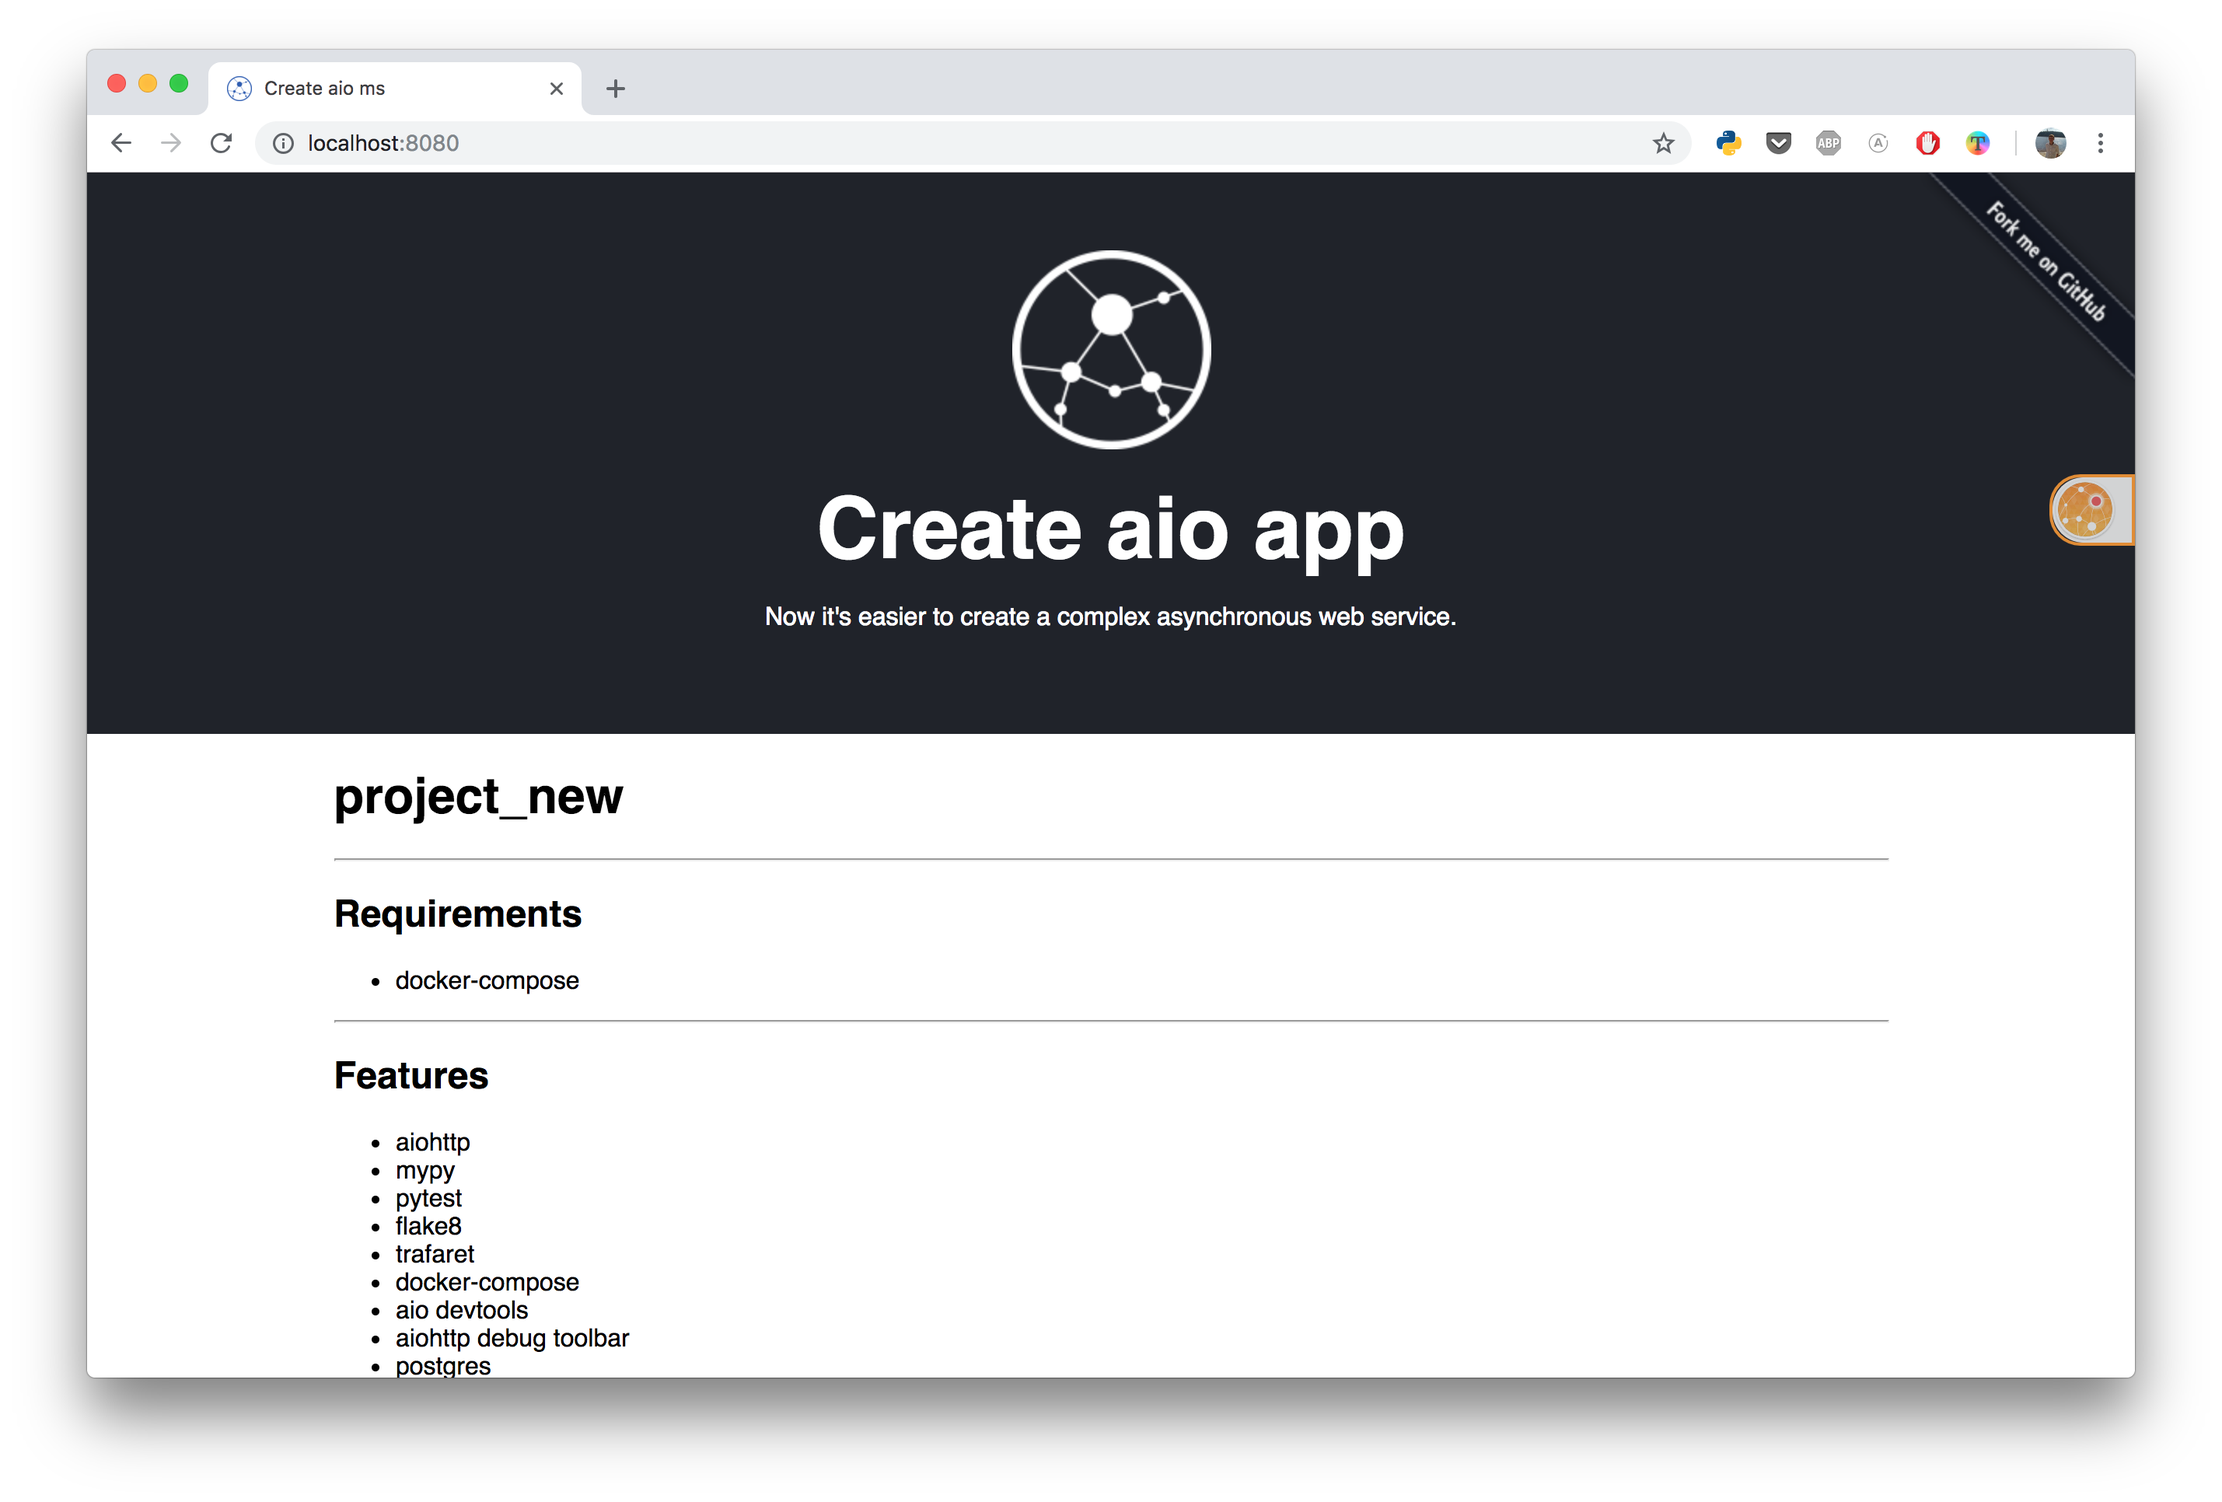
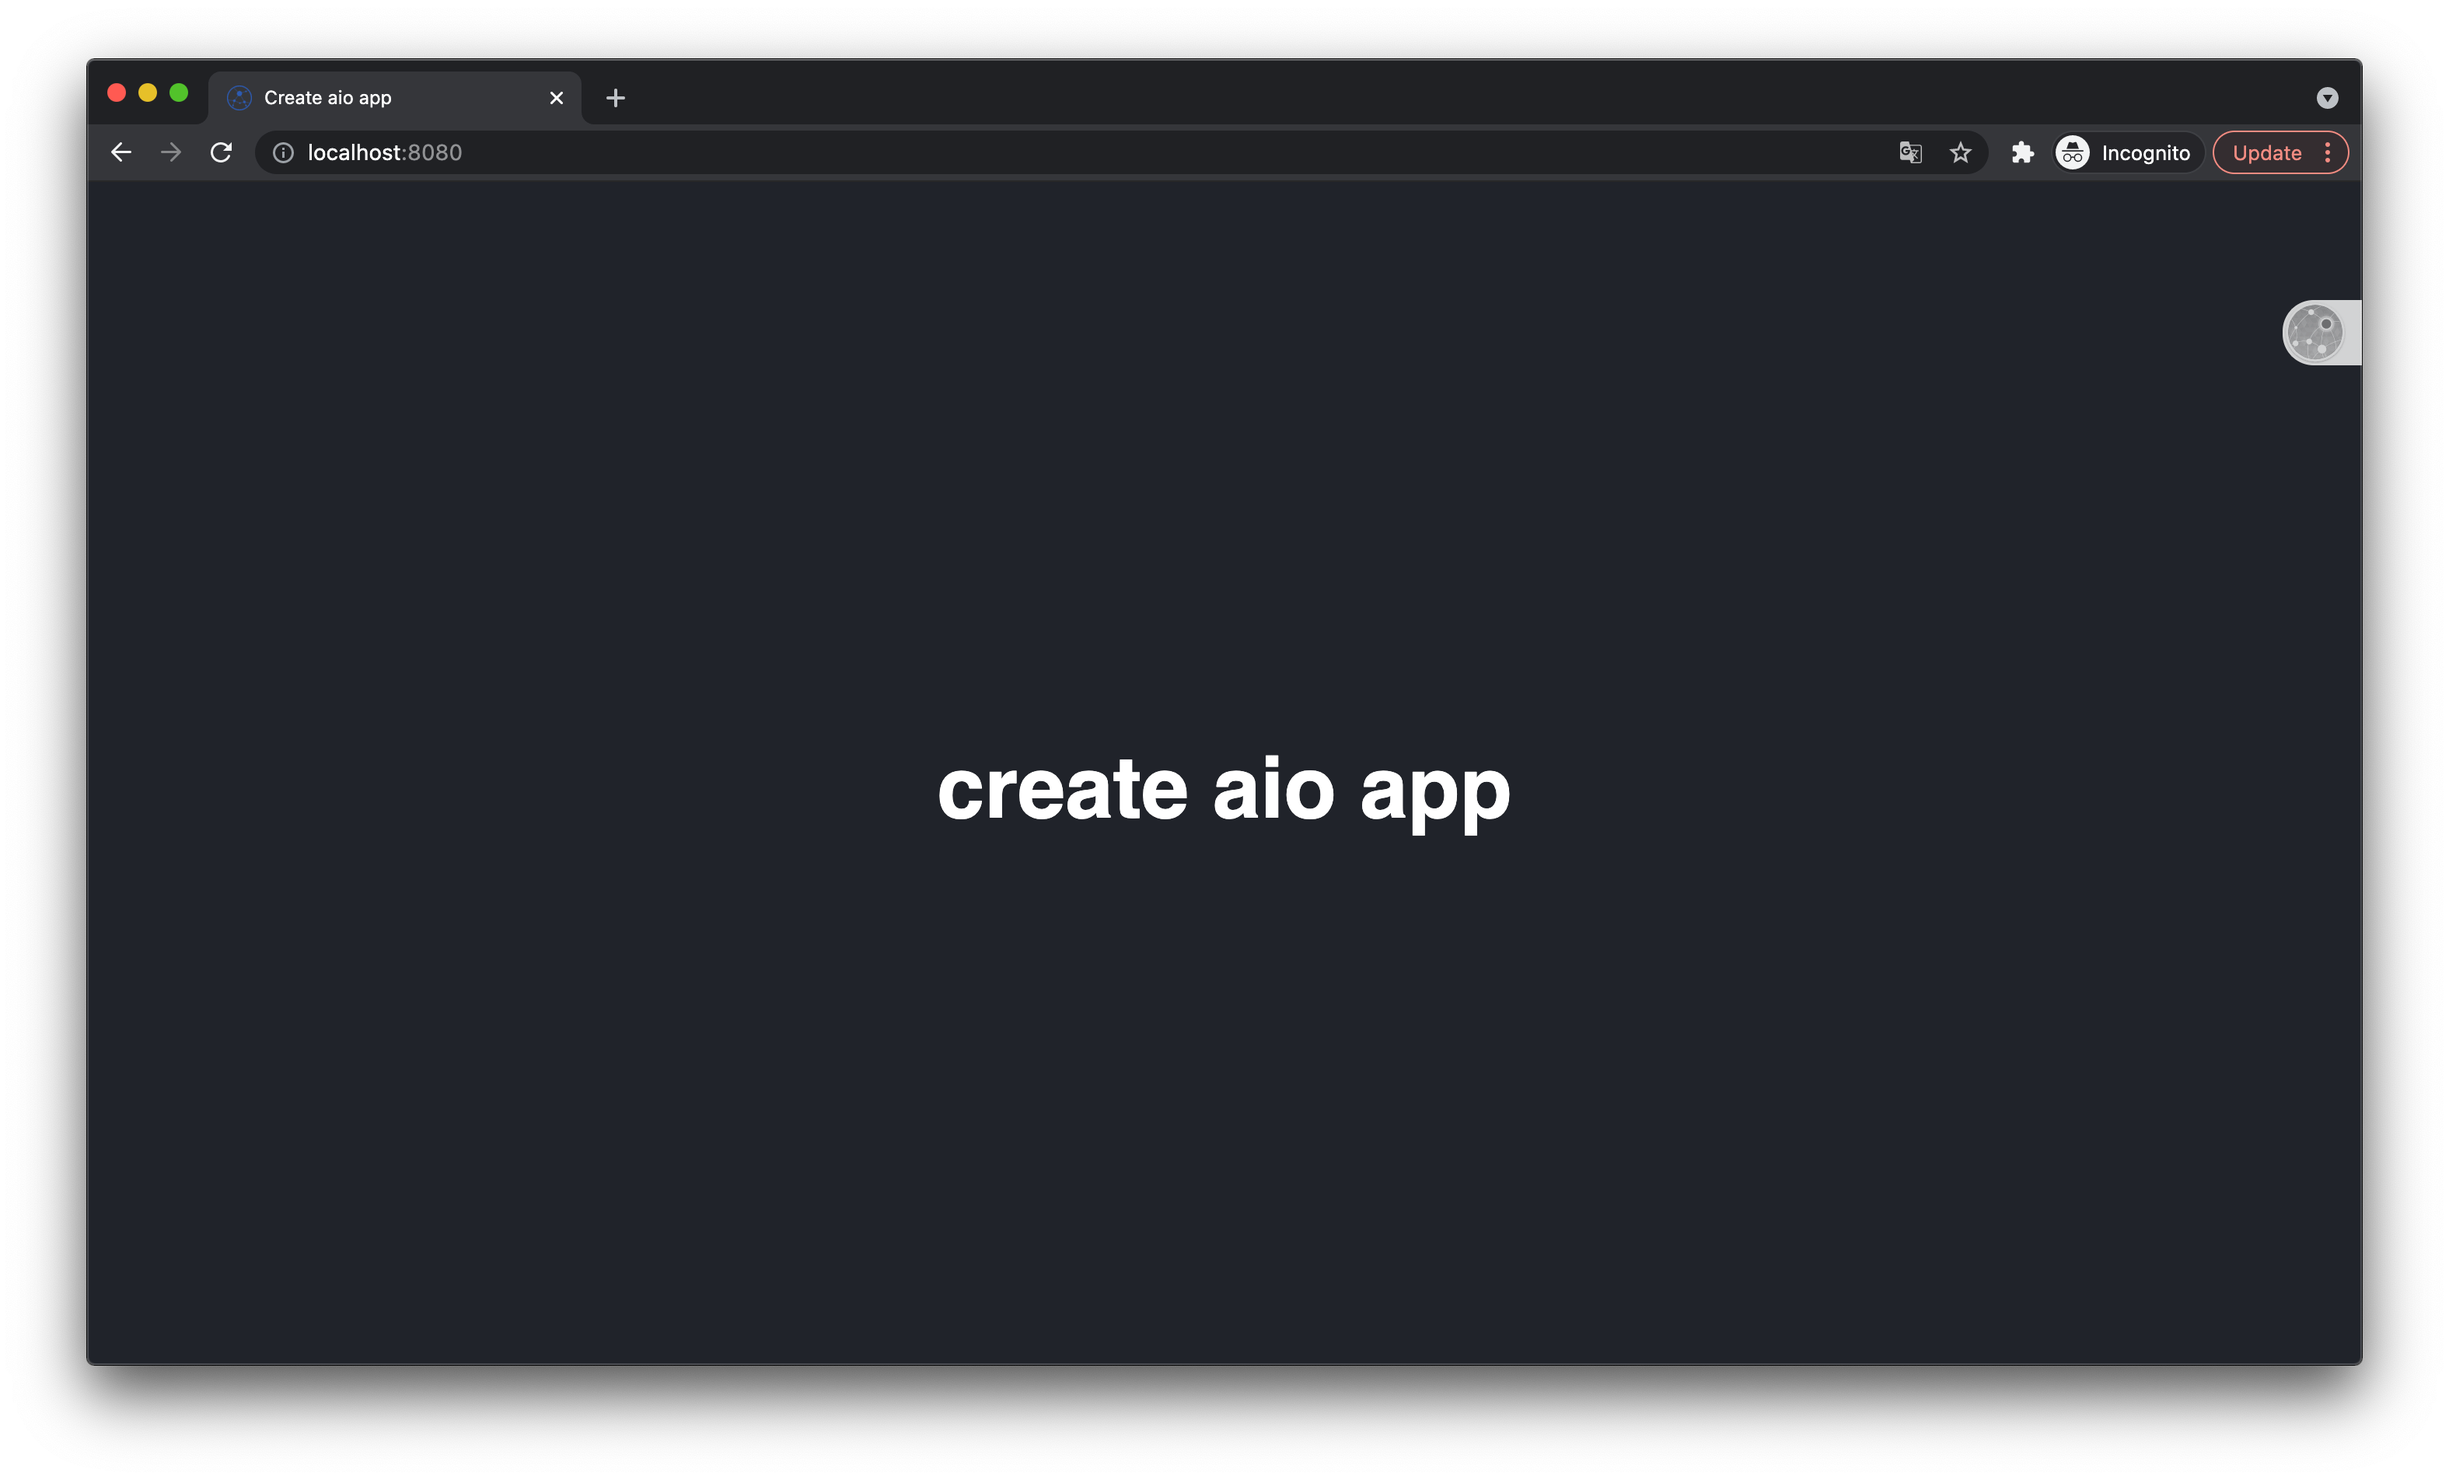
feat: changed view of index page

diff --git a/create_aio_app/template/{{cookiecutter.project_name}}/{{cookiecutter.project_name}}/templates/index.html b/create_aio_app/template/{{cookiecutter.project_name}}/{{cookiecutter.project_name}}/templates/index.html
@@ -20,29 +20,12 @@
   </head>
   <body>
     <header class="header">
-      <a
-        href="https://github.com/Arfey/create-aio-app"
-        class="fork-me-on-github"
-      >
-        <img
-          src="https://s3.amazonaws.com/github/ribbons/forkme_right_darkblue_121621.png"
-          alt="Fork me on GitHub"
-        />
-      </a>
       <div class="banner">
-        <img
-          class="banner-logo"
-          src="{{ url('static', filename='images/logo.png') }}"
-          alt="logo"
-        />
-        <h1 class="banner-title">Create aio app</h1>
-        <p>Now it's easier to create a complex asynchronous web service.</p>
+        <a href="https://github.com/Arfey/create-aio-app">
+          <h1 class="banner-title blink">create aio app</h1>
+        </a>
       </div>
     </header>
-    <main>
-      <p>{{ text|safe }}</p>
-    </main>
-    <footer class="footer"></footer>
   </body>
 </html>
 {%- endraw %}

diff --git a/create_aio_app/template/{{cookiecutter.project_name}}/{{cookiecutter.project_name}}/static/styles/main.css b/create_aio_app/template/{{cookiecutter.project_name}}/{{cookiecutter.project_name}}/static/styles/main.css
@@ -13,14 +13,14 @@ body {
 
 .header {
     flex: initial;
-    padding: 50px 0;
     color: #fff;
     text-align: center;
     background: #20232a;
+    height: 100vh;
+    display: flex;
 }
 
-.banner-logo {
-    display: block;
+.header div {
     margin: auto;
 }
 
@@ -30,28 +30,15 @@ body {
     font-size: 55px;
 }
 
-/* content */
-
-main {
-    flex: 1;
-    max-width: 1000px;
-    width: 100%;
-    margin: auto;
-    color: black;
+a {
+    color: white;
+    text-decoration: none;
 }
 
-/* footer */
+/* debug */
 
-.footer {
-    flex: initial;
-    height: 50px;
-    background: #20232a;
-}
-
-/* github link */
-
-.fork-me-on-github {
-    position: absolute;
-    top: 0;
-    right: 0;
+#pDebug #pDebugToolbarHandle {
+    border: none !important;
+    top: 10% !important;
+    filter: grayscale(100%);
 }

diff --git a/create_aio_app/template/{{cookiecutter.project_name}}/{{cookiecutter.project_name}}/main/views.py b/create_aio_app/template/{{cookiecutter.project_name}}/{{cookiecutter.project_name}}/main/views.py
@@ -1,15 +1,9 @@
 from typing import Dict
 
 import aiohttp_jinja2
-import markdown2
 from aiohttp import web
-
-from {{ cookiecutter.project_name }}.constants import PROJECT_DIR
 
 
 @aiohttp_jinja2.template('index.html')
 async def index(request: web.Request) -> Dict[str, str]:
-    with open(PROJECT_DIR / 'README.md') as f:
-        text = markdown2.markdown(f.read())
-
-    return {"text": text}
+    return {}
